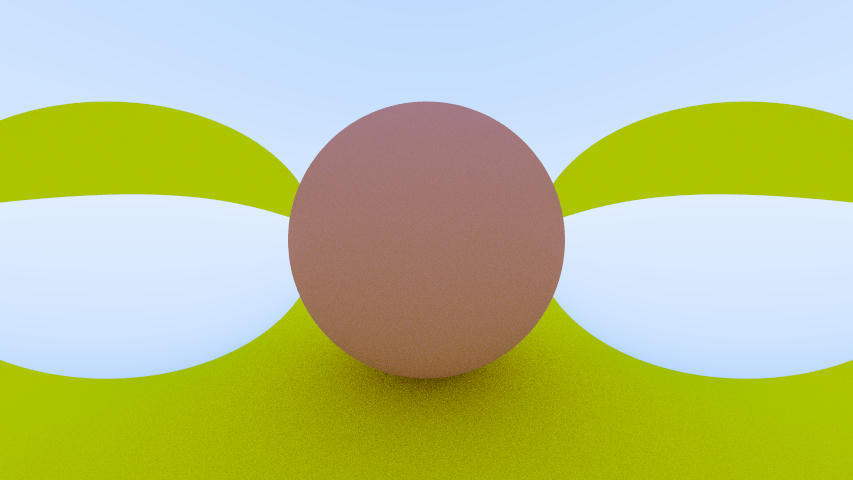
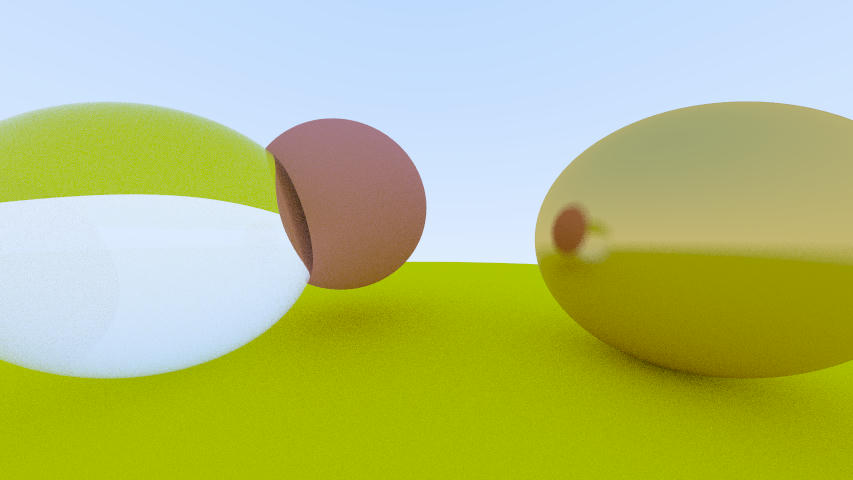
Schlick's approximiation

diff --git a/src/main.rs b/src/main.rs
@@ -22,14 +22,14 @@ fn main() {
     let mat_ground:      Arc<dyn Material + Send + Sync>   = Arc::new(Lambertian { albedo: Vec3(0.8, 0.8, 0.0) });
     let mat_center:      Arc<dyn Material + Send + Sync>   = Arc::new(Lambertian { albedo: Vec3(0.7, 0.3, 0.3) });
     let mat_left:        Arc<dyn Material + Send + Sync>   = Arc::new(Metal      { albedo: Vec3(0.8, 0.8, 0.8), fuzz: 0.3 });
-    let mat_right:       Arc<dyn Material + Send + Sync>   = Arc::new(Metal      { albedo: Vec3(0.8, 0.6, 0.2), fuzz: 0.7 });
+    let mat_right:       Arc<dyn Material + Send + Sync>   = Arc::new(Metal      { albedo: Vec3(0.8, 0.6, 0.2), fuzz: 0.1 });
     let mat_dielectric:  Arc<dyn Material + Send + Sync>   = Arc::new(Dielectric { eta: 1.5 });
 
     let mut scene = Scene::new();
     scene.geometry.push(Box::new(Sphere { origin: Vec3( 0.0, -100.5, -1.0), radius: 100.0, material: Arc::clone(&mat_ground) }));
-    scene.geometry.push(Box::new(Sphere { origin: Vec3( 0.0,    0.0, -1.0), radius:   0.5, material: Arc::clone(&mat_center) }));
+    scene.geometry.push(Box::new(Sphere { origin: Vec3(-0.5,    0.2, -1.5), radius:   0.5, material: Arc::clone(&mat_center) }));
     scene.geometry.push(Box::new(Sphere { origin: Vec3(-1.0,    0.0, -1.0), radius:   0.5, material: Arc::clone(&mat_dielectric) }));
-    scene.geometry.push(Box::new(Sphere { origin: Vec3( 1.0,    0.0, -1.0), radius:   0.5, material: Arc::clone(&mat_dielectric)  }));
+    scene.geometry.push(Box::new(Sphere { origin: Vec3( 1.0,    0.0, -1.0), radius:   0.5, material: Arc::clone(&mat_right) }));
 
     let camera = Camera::new(480, 16.0 / 9.0, 1.0, 2.0, 50, Vec3::ZERO);
     let raytracer = Raytracer::new(Vec3(0.5, 0.7, 1.0), 10);

diff --git a/src/material.rs b/src/material.rs
@@ -51,11 +51,29 @@ impl Material for Dielectric {
         let is_front_face = -intersect.normal.dot(&ray_in.direction) >= 0.0;
         let normal = if is_front_face { intersect.normal } else { -intersect.normal };
         let frac_eta = if is_front_face { 1.0 / self.eta } else { self.eta / 1.0 };
-        let refracted = ray_in.direction.refracted(&normal, frac_eta).normalized();
+
+        let cos_i = -ray_in.direction.dot(&normal);
+        let sin_t2 = frac_eta * frac_eta * (1.0 - cos_i * cos_i);
+
+        let direction = if sin_t2 > 1.0 || Dielectric::reflectance(cos_i, frac_eta) > rand::random() {
+            // total internal reflection
+            ray_in.direction.reflected(&normal)
+        } else {
+            ray_in.direction.refracted(&normal, frac_eta).normalized()
+        };
 
         (Ray {
             origin: intersect.point,
-            direction: refracted
+            direction
         }, Vec3::UNIT)
+    }
+}
+
+impl Dielectric {
+    // Schlick's approximation for Fresnel factor
+    fn reflectance(cos: f64, eta: f64) -> f64 {
+        let r0 = (1.0 - eta) / (1.0 + eta);
+        let r0 = r0 * r0;
+        r0 + (1.0 - r0) * (1.0 - cos).powi(5)
     }
 }

diff --git a/src/vec.rs b/src/vec.rs
@@ -51,13 +51,9 @@ impl Vec3 {
 
     pub fn refracted(&self, normal: &Vec3, frac_eta: f64) -> Vec3 {
         // https://graphics.stanford.edu/courses/cs148-10-summer/docs/2006--degreve--reflection_refraction.pdf
+        // assume no total internal reflection
         let cos_i = -self.dot(&normal);
         let sin_t2 = frac_eta * frac_eta * (1.0 - cos_i * cos_i);
-        if sin_t2 > 1.0 {
-            // total internal reflection
-            return self.reflected(normal);
-        }
-
         let cos_t = (1.0 - sin_t2).sqrt();
         *self * frac_eta + *normal * (frac_eta * cos_i - cos_t)
     }
